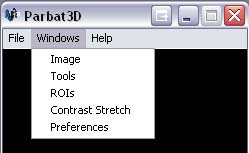
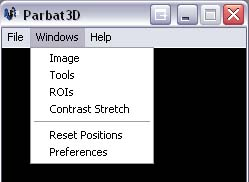
completed file menu help

Changed region(s): [[0.0, 0.0, 1.0, 1.0], [0.1968, 0.4706, 0.3092, 0.549]]

diff --git a/doc/user/file_menu.html b/doc/user/file_menu.html
@@ -2,12 +2,84 @@
 <html>
 <head>
   <meta content="text/html; charset=ISO-8859-1" http-equiv="content-type">
-  <title>Parbat 3D User Manual: File Menu</title>
+  <title>Parbat 3D User Manual: Menu Items</title>
   <link rel="stylesheet" href="assets/main.css" type="text/css">
 </head>
 
 
 <body>
-<h1>File Menu</h1>
+<h1>Menu Items</h1>
+<img src="assets/overview_window.jpg"><br><br>
+The File menu is located at the top of the Overview Window, which is the first window displayed when Parbat3D is
+launched.<br>
+
+
+
+<h2>File Menu</h2>
+<img src="assets/file_menu.jpg"><br><br>
+<h3>Open Image</h3>
+<p>
+Displays a standard windows dialogue box for opening files.<br>
+Files types are limited to:<br>
+<ul>
+	<li>All Supported Images (default option)</li>
+	<li>ERMapper compressed wavelets (*.ecw)</li>
+	<li>JPEG (*.jpg)</li>
+	<li>JPEG200 (*.j2k, *.jp2)</li>
+	<li>TIFF / GeoTIFF (*.tif)</li>
+	<li>All Files (*.*)</li>
+</ul>
+</p>
+
+<h3>Close Image</h3>
+<p>
+Closes the currently open image.<br>
+</p>
+
+
+
+<h2>Windows Menu</h2>
+<img src="assets/window_menu.jpg"><br><br>
+<h3>Image</h3>
+<p>Toggles the main Image Window which displays the satellite imagery.<br>
+(Only available when an image is open).</p>
+
+<h3>Tools</h3>
+<p>Toggles the Tools Window which contains.<br>
+(Only available when an image is open).</p>
+
+<h3>ROIs</h3>
+<p>Toggles the ROI creation Window.<br>
+(Only available when an image is open).</p>
+
+<h3>Contrast Stretch</h3>
+<p>Toggles the Contrast Stretch options window for adjusting the brightness and contrast of the displayed satellite
+images. For display purposes only and does not alter image data.<br>
+(Only available when an image is open).</p>
+
+<h3>Reset Positions</h3>
+<p>Resets the layout of all the windows to the default locations and size.<br>
+
+<h3>Preferences</h3>
+<p>Toggles the preferences window used for setting:<br>
+<ul>
+	<li>Cache size</li>
+	<li>Texture Dimension (pixels)</li>
+	<li>Display 'open file' warning</li>
+</ul>
+See <a href="">Setting Preferneces</a> (to do)</p>
+
+
+
+<h2>Help Menu</h3>
+<img src="assets/help_menu.jpg"><br><br>
+<h3>Parbat3D Help</h3>
+<p>Launches this User Manual.</p>
+
+<h3>About Parbat3D...</h3>
+<p>Displays information about Parbat3D.</p>
+
+
+
 </body>
 </html>

diff --git a/doc/user/index.html b/doc/user/index.html
@@ -11,24 +11,29 @@
 <h1>Contents</h1>
 
 <h2>Introduction</h2>
+<p>
 (Dave please split up your intro into as many parts as needed.)<br>
 <a href="intro.html">Introduction</a><br>
 Remote Sensing<br>
 Software Purpose<br>
 Client<br>
 etc<br>
+</p>
 
 <h2>Getting Started</h2>
+<p>
 Installation<br>
 <a href="getting_started.html">Getting Started</a><br>
 Overview<br>
 <a href="starting_and_quiting.html">Starting and Quitting Parbat3D</a><br>
 Loading an Image<br>
 <a href="getting_help.html">Getting Help</a><br>
+</p>
 
 <h2>Using Parbat3D</h2>
+<p>
 Working Environment<br>
-File Menu<br>
+<a href="file_menu.html">Menu Items</a><br>
 Assigning Image Bands to Display Bands<br>
 Querying Pixels<br>
 Image File Information<br>
@@ -44,6 +49,6 @@ Feature Space<br>
 Setting Preferences<br>
 Shortcuts
 Troubleshooting<br>
-
+</p>
 </body>
 </html>
